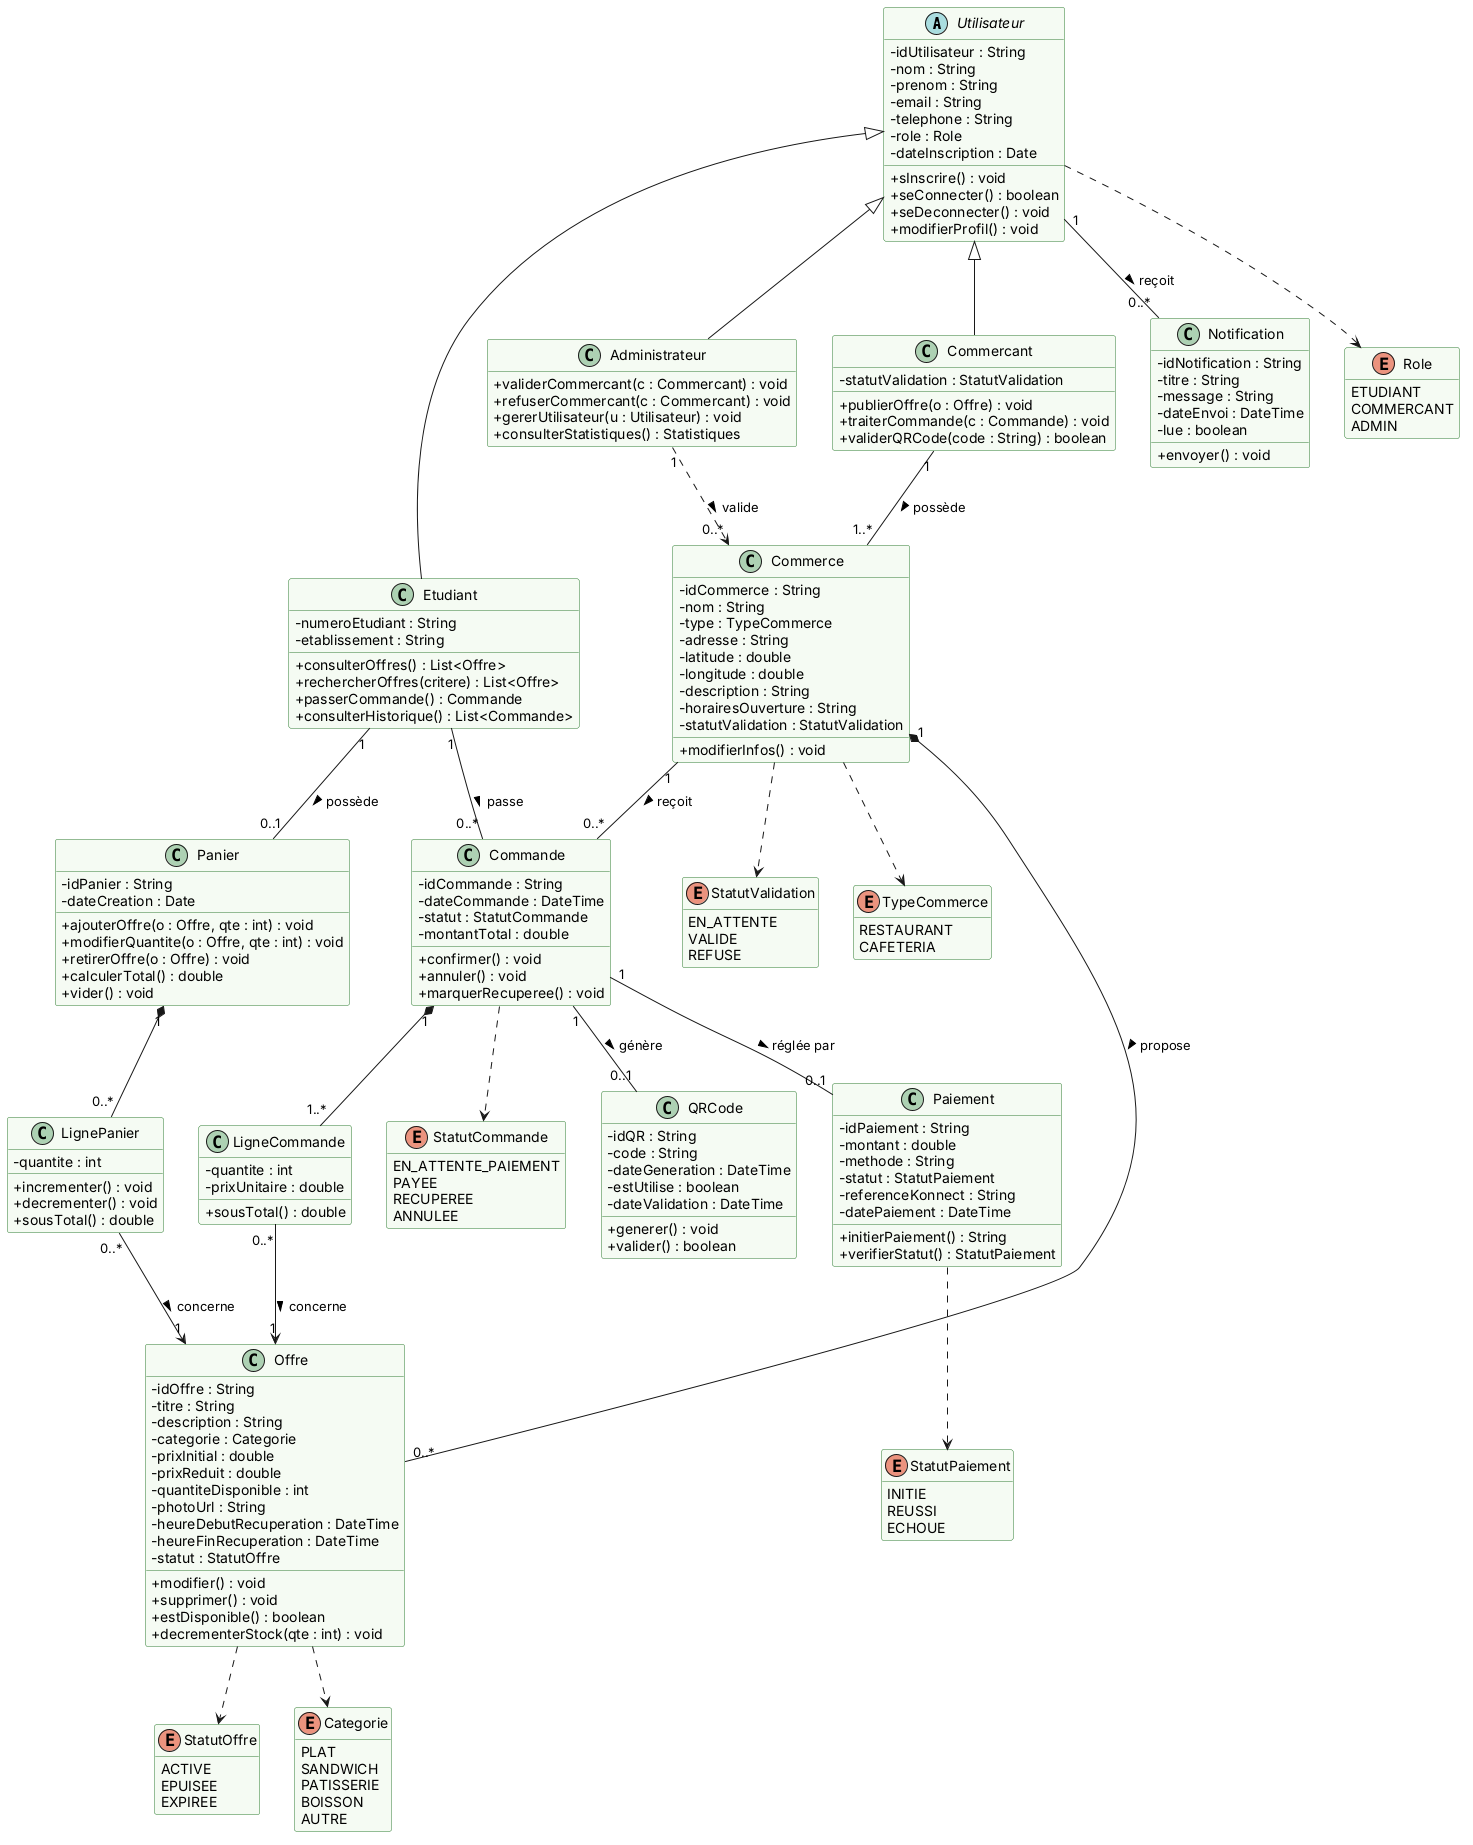
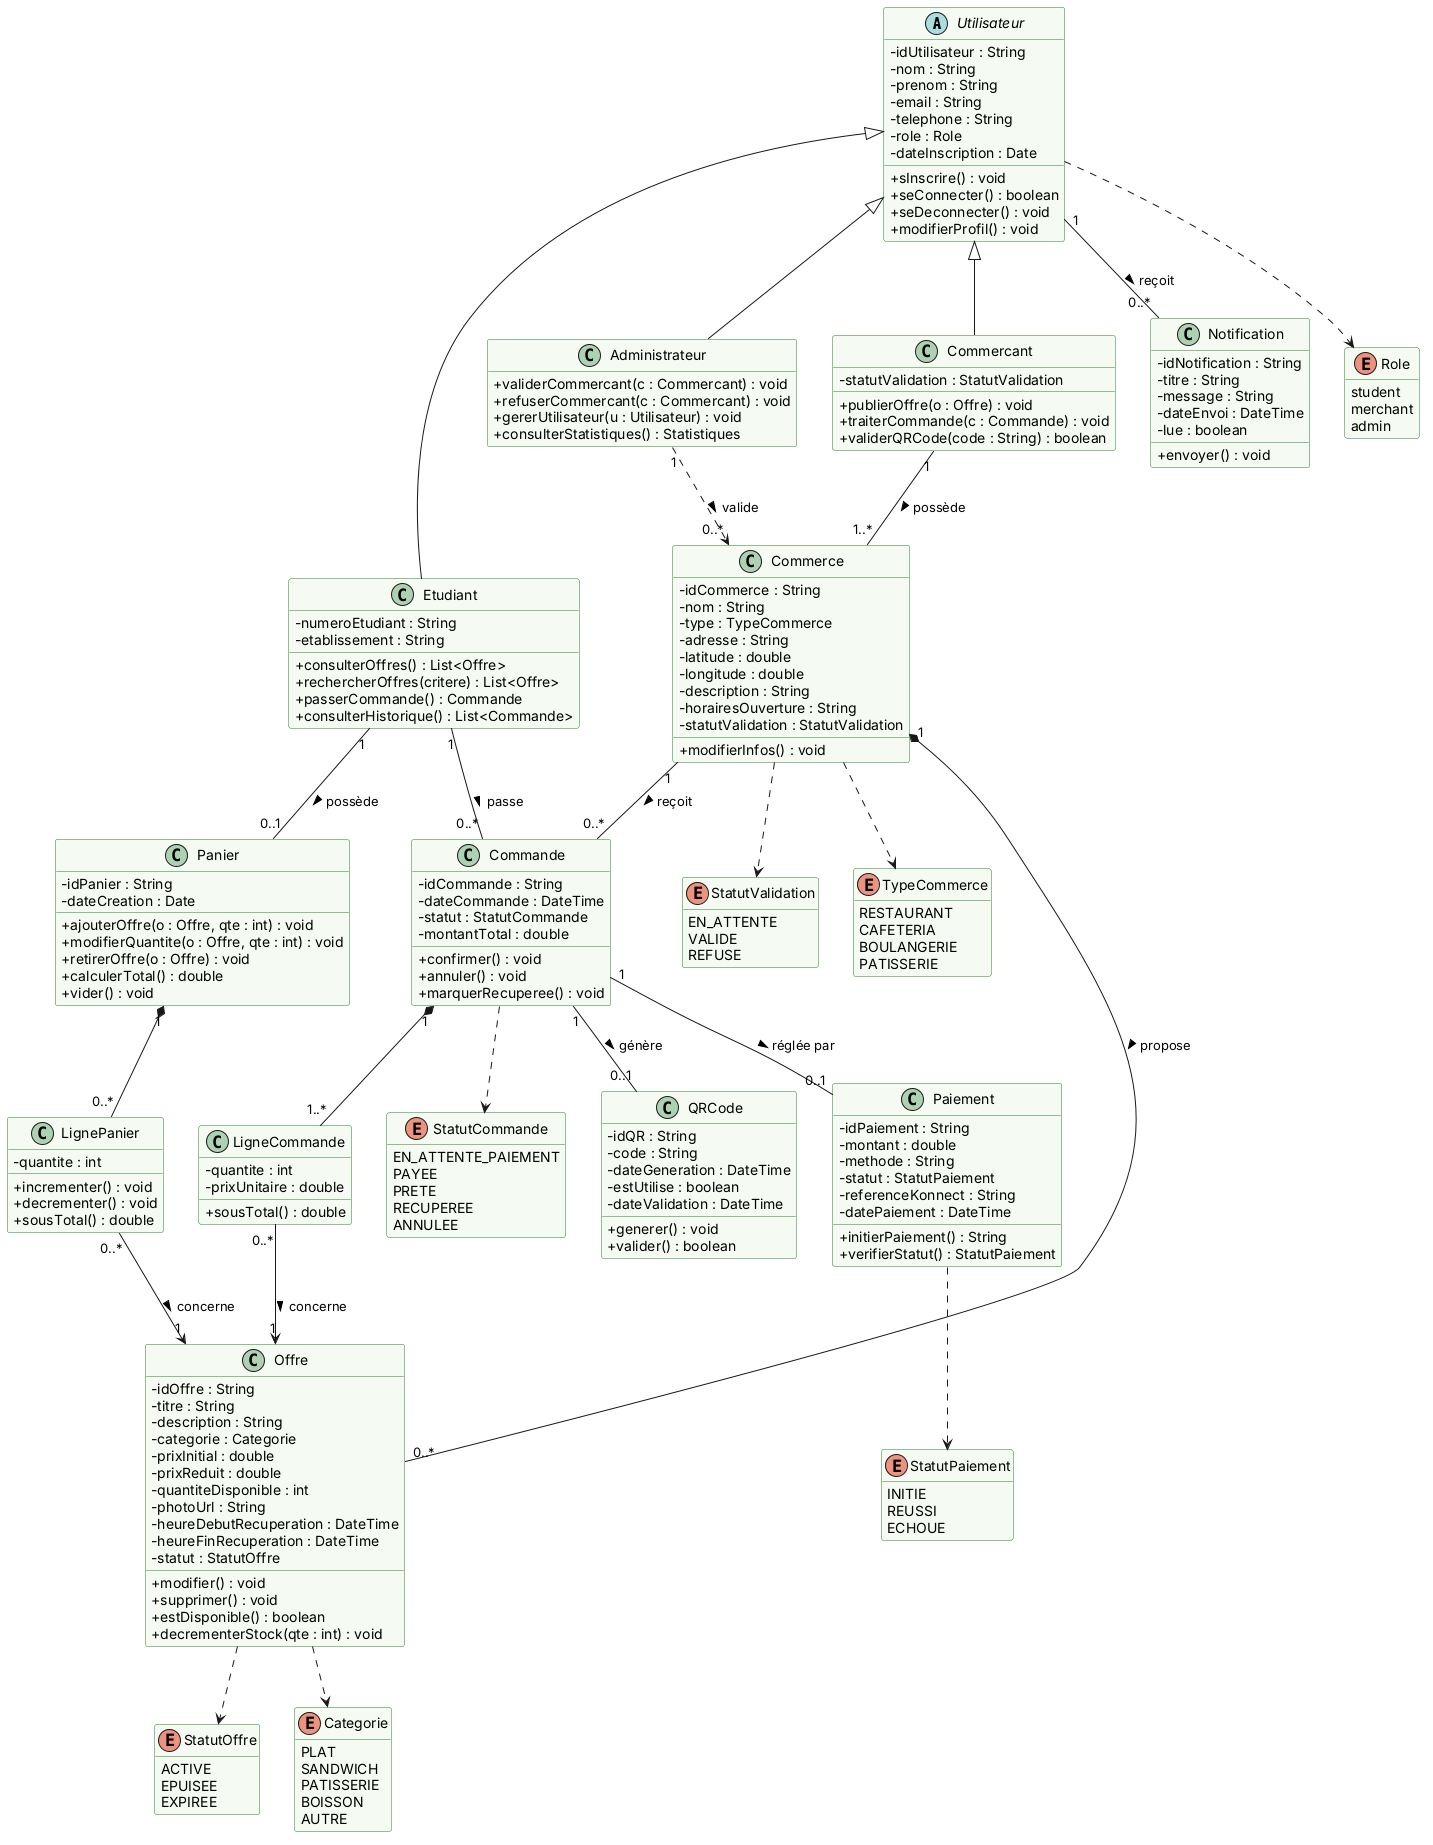
Alignement code et diagramme de classes (retours de Ranim)
- Diagramme : Role = student/merchant/admin, TypeCommerce + BOULANGERIE/PATISSERIE, StatutCommande + PRETE
- Code : horaires -> horairesOuverture, debut/finRecuperation -> heureDebut/heureFinRecuperation
- Admin : filtre ?statut=EN_ATTENTE ; décision VALIDE / REFUSE
- mock.js : retrait de la référence à openapi.yaml
- Remise des maquettes Web_Admin et Web_Commercant

Claude-Session: https://claude.ai/code/session_01TfQuqQypybCSvQ1N7SbRLR

diff --git a/web/src/pages/merchant/OfferForm.jsx b/web/src/pages/merchant/OfferForm.jsx
@@ -5,7 +5,7 @@ import { CATEGORIES } from '../../config/constants'
 import { Entete } from '../../components/ui'
 import { fromMillimes, toInputDateTime, toMillimes } from '../../utils/format'
 
-const VIDE = { titre: '', description: '', categorie: 'PLATS', prixInitial: '', prixReduit: '', quantiteDisponible: 1, debutRecuperation: '', finRecuperation: '' }
+const VIDE = { titre: '', description: '', categorie: 'PLATS', prixInitial: '', prixReduit: '', quantiteDisponible: 1, heureDebutRecuperation: '', heureFinRecuperation: '' }
 
 // Création et modification d'une offre (règles du cahier des charges : prix réduit < prix initial, stock >= 0, fin > début).
 export default function OfferForm() {
@@ -17,7 +17,7 @@ export default function OfferForm() {
 
   useEffect(() => {
     if (!id) return
-    api.getOffer(id).then((o) => setF({ ...o, prixInitial: fromMillimes(o.prixInitial), prixReduit: fromMillimes(o.prixReduit), debutRecuperation: toInputDateTime(o.debutRecuperation), finRecuperation: toInputDateTime(o.finRecuperation) }))
+    api.getOffer(id).then((o) => setF({ ...o, prixInitial: fromMillimes(o.prixInitial), prixReduit: fromMillimes(o.prixReduit), heureDebutRecuperation: toInputDateTime(o.heureDebutRecuperation), heureFinRecuperation: toInputDateTime(o.heureFinRecuperation) }))
       .catch((e) => setErreur(e.message))
   }, [id])
 
@@ -30,8 +30,8 @@ export default function OfferForm() {
     const quantiteDisponible = Number(f.quantiteDisponible)
     if (!(prixReduit > 0) || prixReduit >= prixInitial) return setErreur('Le prix réduit doit être positif et inférieur au prix initial.')
     if (!Number.isInteger(quantiteDisponible) || quantiteDisponible < 0) return setErreur('La quantité doit être un entier positif ou nul.')
-    if (new Date(f.finRecuperation) <= new Date(f.debutRecuperation)) return setErreur("L'heure de fin doit suivre l'heure de début.")
-    const data = { titre: f.titre.trim(), description: f.description, categorie: f.categorie, prixInitial, prixReduit, quantiteDisponible, debutRecuperation: new Date(f.debutRecuperation).toISOString(), finRecuperation: new Date(f.finRecuperation).toISOString() }
+    if (new Date(f.heureFinRecuperation) <= new Date(f.heureDebutRecuperation)) return setErreur("L'heure de fin doit suivre l'heure de début.")
+    const data = { titre: f.titre.trim(), description: f.description, categorie: f.categorie, prixInitial, prixReduit, quantiteDisponible, heureDebutRecuperation: new Date(f.heureDebutRecuperation).toISOString(), heureFinRecuperation: new Date(f.heureFinRecuperation).toISOString() }
     setErreur(''); setEnvoi(true)
     try {
       await (id ? api.updateOffer(id, data) : api.createOffer(data))
@@ -51,8 +51,8 @@ export default function OfferForm() {
         <div className="cs-field"><label htmlFor="qte">Quantité disponible</label><input id="qte" type="number" min="0" step="1" required value={f.quantiteDisponible} onChange={set('quantiteDisponible')} /></div>
         <div className="cs-field"><label htmlFor="pi">Prix initial (DT)</label><input id="pi" inputMode="decimal" required value={f.prixInitial} onChange={set('prixInitial')} /></div>
         <div className="cs-field"><label htmlFor="pr">Prix réduit (DT)</label><input id="pr" inputMode="decimal" required value={f.prixReduit} onChange={set('prixReduit')} /></div>
-        <div className="cs-field"><label htmlFor="d">Début du retrait</label><input id="d" type="datetime-local" required value={f.debutRecuperation} onChange={set('debutRecuperation')} /></div>
-        <div className="cs-field"><label htmlFor="e">Fin du retrait</label><input id="e" type="datetime-local" required value={f.finRecuperation} onChange={set('finRecuperation')} /></div>
+        <div className="cs-field"><label htmlFor="d">Début du retrait</label><input id="d" type="datetime-local" required value={f.heureDebutRecuperation} onChange={set('heureDebutRecuperation')} /></div>
+        <div className="cs-field"><label htmlFor="e">Fin du retrait</label><input id="e" type="datetime-local" required value={f.heureFinRecuperation} onChange={set('heureFinRecuperation')} /></div>
         <div className="cs-actions cs-field full">
           <button className="cs-btn primary" disabled={envoi}>{envoi ? 'Enregistrement…' : 'Enregistrer'}</button>
           <button type="button" className="cs-btn" onClick={() => nav('/commercant/offres')}>Annuler</button>

diff --git a/web/src/services/mock.js b/web/src/services/mock.js
@@ -1,14 +1,14 @@
-// Données fictives : même forme que les réponses de l'API (voir openapi.yaml).
+// Données fictives : même forme que les réponses de l'API (mêmes noms que le diagramme de classes).
 const wait = (v) => new Promise((r) => setTimeout(() => r(structuredClone(v)), 150))
 const h = (n) => new Date(Date.now() + n * 3600e3).toISOString()
 let seq = 100
 
 const db = {
-  shop: { id: 's1', nom: 'Boulangerie Le Fournil', description: 'Pain et viennoiseries du jour', type: 'BOULANGERIE', adresse: 'Rue de la Liberté, Tunis', latitude: 36.8065, longitude: 10.1815, horaires: '07:00 - 20:00', statutValidation: 'VALIDE' },
+  shop: { id: 's1', nom: 'Boulangerie Le Fournil', description: 'Pain et viennoiseries du jour', type: 'BOULANGERIE', adresse: 'Rue de la Liberté, Tunis', latitude: 36.8065, longitude: 10.1815, horairesOuverture: '07:00 - 20:00', statutValidation: 'VALIDE' },
   offers: [
-    { id: 'o1', titre: 'Lot de viennoiseries (6 pièces)', description: '', categorie: 'BOULANGERIE', prixInitial: 12000, prixReduit: 4500, quantiteDisponible: 4, debutRecuperation: h(1), finRecuperation: h(2), statut: 'ACTIVE' },
-    { id: 'o2', titre: 'Pain du jour (2 baguettes)', description: '', categorie: 'BOULANGERIE', prixInitial: 3000, prixReduit: 1500, quantiteDisponible: 0, debutRecuperation: h(2), finRecuperation: h(3), statut: 'EPUISEE' },
-    { id: 'o3', titre: 'Assortiment de tartes salées', description: '', categorie: 'PLATS', prixInitial: 10000, prixReduit: 5000, quantiteDisponible: 6, debutRecuperation: h(3), finRecuperation: h(4), statut: 'ACTIVE' },
+    { id: 'o1', titre: 'Lot de viennoiseries (6 pièces)', description: '', categorie: 'BOULANGERIE', prixInitial: 12000, prixReduit: 4500, quantiteDisponible: 4, heureDebutRecuperation: h(1), heureFinRecuperation: h(2), statut: 'ACTIVE' },
+    { id: 'o2', titre: 'Pain du jour (2 baguettes)', description: '', categorie: 'BOULANGERIE', prixInitial: 3000, prixReduit: 1500, quantiteDisponible: 0, heureDebutRecuperation: h(2), heureFinRecuperation: h(3), statut: 'EPUISEE' },
+    { id: 'o3', titre: 'Assortiment de tartes salées', description: '', categorie: 'PLATS', prixInitial: 10000, prixReduit: 5000, quantiteDisponible: 6, heureDebutRecuperation: h(3), heureFinRecuperation: h(4), statut: 'ACTIVE' },
   ],
   orders: [
     { id: 'c1', code: 'CS-2047', lignes: [{ titre: 'Lot de viennoiseries (6 pièces)', quantite: 1, prixUnitaire: 4500 }], montantTotal: 4500, statut: 'RECUPEREE', createdAt: h(-5) },
@@ -56,7 +56,7 @@ export const mock = {
     repasSauves: db.orders.filter((o) => o.statut === 'RECUPEREE').reduce((s, o) => s + o.lignes.reduce((n, l) => n + l.quantite, 0), 0),
   }),
   adminStats: () => wait({ utilisateurs: db.users.length, commercesValides: db.shops.filter((s) => s.statutValidation === 'VALIDE').length, commercesEnAttente: db.shops.filter((s) => s.statutValidation === 'EN_ATTENTE').length, commandes: db.orders.length, paiements: db.orders.filter((o) => o.statut !== 'ANNULEE' && o.statut !== 'EN_ATTENTE_PAIEMENT').length }),
-  adminShops: (status) => wait(db.shops.filter((s) => !status || (status === 'pending' ? s.statutValidation === 'EN_ATTENTE' : true))),
+  adminShops: (statut) => wait(db.shops.filter((s) => !statut || s.statutValidation === statut)),
   validateShop: (id, decision) => { db.shops = db.shops.map((s) => (s.id === id ? { ...s, statutValidation: decision } : s)); return wait({}) },
   adminUsers: () => wait(db.users),
   setUserActive: (id, actif) => { db.users = db.users.map((u) => (u.id === id ? { ...u, actif } : u)); return wait({}) },

diff --git a/web/src/pages/merchant/Shop.jsx b/web/src/pages/merchant/Shop.jsx
@@ -31,7 +31,7 @@ export default function Shop() {
         <div className="cs-field full"><label htmlFor="adr">Adresse</label><input id="adr" required value={f.adresse} onChange={set('adresse')} /></div>
         <div className="cs-field"><label htmlFor="lat">Latitude</label><input id="lat" type="number" step="any" required value={f.latitude} onChange={set('latitude')} /></div>
         <div className="cs-field"><label htmlFor="lng">Longitude</label><input id="lng" type="number" step="any" required value={f.longitude} onChange={set('longitude')} /></div>
-        <div className="cs-field full"><label htmlFor="hor">Horaires d'ouverture</label><input id="hor" value={f.horaires || ''} onChange={set('horaires')} /></div>
+        <div className="cs-field full"><label htmlFor="hor">Horaires d'ouverture</label><input id="hor" value={f.horairesOuverture || ''} onChange={set('horairesOuverture')} /></div>
         <div className="cs-field full"><label htmlFor="d">Description</label><textarea id="d" rows={3} value={f.description || ''} onChange={set('description')} /></div>
         <div className="cs-field full"><button className="cs-btn primary">Enregistrer</button></div>
       </form>

diff --git a/web/src/services/api.js b/web/src/services/api.js
@@ -30,7 +30,7 @@ const real = {
   validateQr: (code) => request('/orders/validate-qr', { method: 'POST', body: { code } }),
   merchantStats: () => request('/stats/merchant'),
   adminStats: () => request('/stats/admin'),
-  adminShops: (status) => request(`/admin/shops${status ? `?status=${status}` : ''}`),
+  adminShops: (statut) => request(`/admin/shops${statut ? `?statut=${statut}` : ''}`),
   validateShop: (id, decision) => request(`/admin/shops/${id}/validate`, { method: 'PATCH', body: { decision } }),
   adminUsers: () => request('/admin/users'),
   setUserActive: (id, actif) => request(`/admin/users/${id}`, { method: 'PATCH', body: { actif } }),

diff --git a/web/src/pages/merchant/Offers.jsx b/web/src/pages/merchant/Offers.jsx
@@ -24,7 +24,7 @@ export default function Offers() {
           <strong key="t">{o.titre}</strong>,
           <span key="p">{dt(o.prixReduit)} <s>{dt(o.prixInitial)}</s></span>,
           o.quantiteDisponible,
-          `${dateHeure(o.debutRecuperation)} → ${dateHeure(o.finRecuperation)}`,
+          `${dateHeure(o.heureDebutRecuperation)} → ${dateHeure(o.heureFinRecuperation)}`,
           <Badge key="s" type="offre" valeur={o.statut} />,
           <div key="a" className="cs-actions">
             {o.statut !== 'RETIREE' && <Link className="cs-btn" to={`/commercant/offres/${o.id}`}>Modifier</Link>}

diff --git a/web/src/config/constants.js b/web/src/config/constants.js
@@ -1,4 +1,4 @@
-// Rôles tels que renvoyés par l'API (GET /users/me) ; à aligner avec le backend si besoin.
+// Rôles tels que renvoyés par l'API (GET /users/me) : student / merchant / admin.
 export const ROLES = { STUDENT: 'student', MERCHANT: 'merchant', ADMIN: 'admin' }
 
 export const CATEGORIES = ['BOULANGERIE', 'PLATS', 'PATISSERIE', 'BOISSONS']
